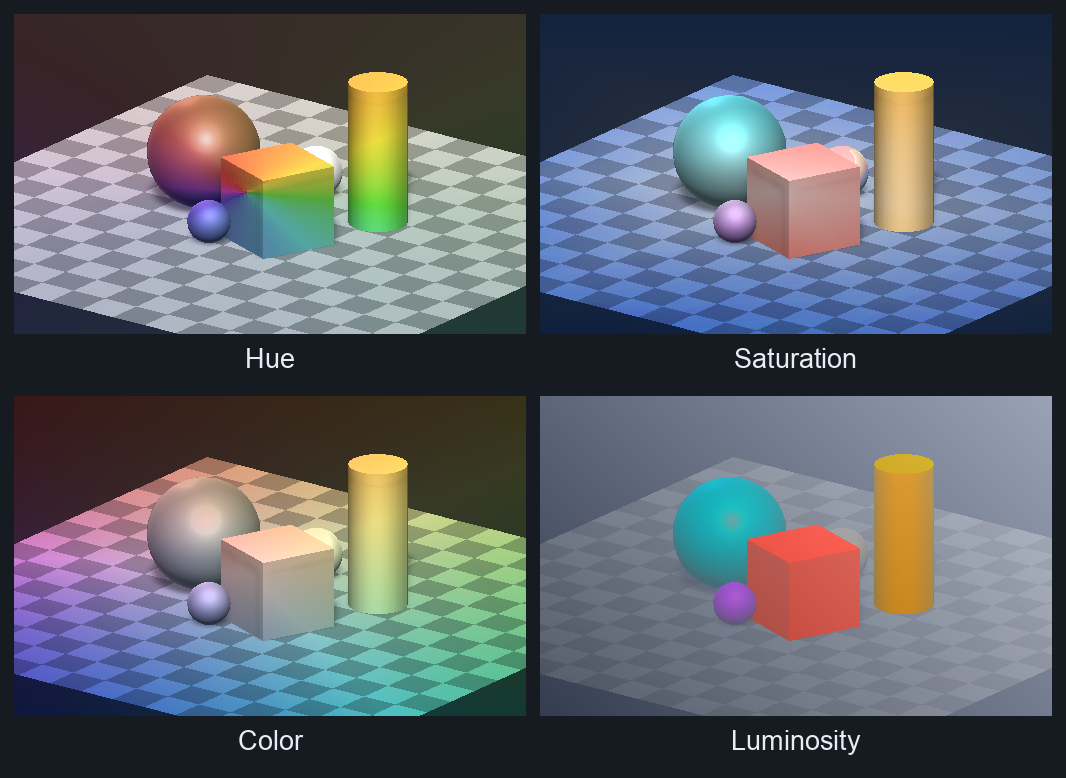
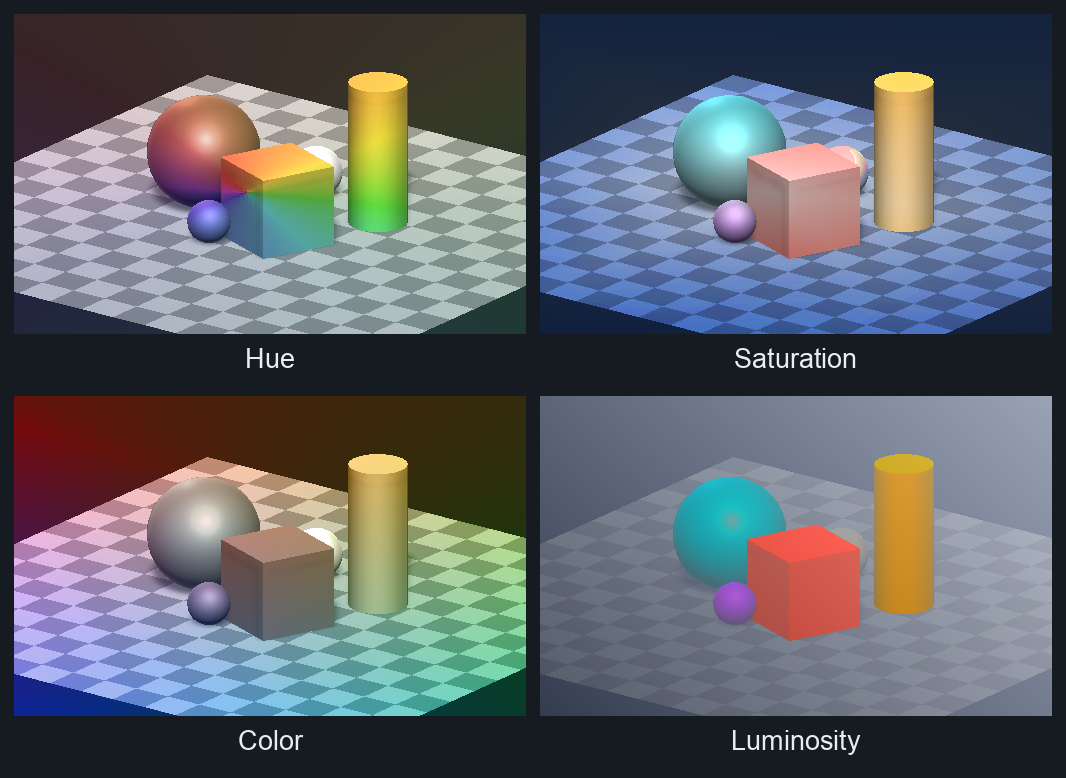
fix: preserve luminosity in Color blending

Changed region(s): [[0.0, 0.4936, 0.4953, 0.9254], [0.4644, 0.6787, 0.4953, 0.7095]]

diff --git a/README.md b/README.md
@@ -26,7 +26,7 @@ Unity 6000.6.7f1 · Built-in/Metal · Gamma · orthographic camera. Same inputs,
 
 ![Overlay, Soft Light, Hard Light, Vivid Light, Linear Light, Pin Light, Hard Mix, Difference, and Exclusion](samples/contrast-difference.png)
 
-**Color components** — transfer hue, saturation, color, or luminosity.
+**Color components** — transfer hue, saturation, color, or luminosity. Color preserves background luminosity; muted blend colors still desaturate.
 
 ![Hue, Saturation, Color, and Luminosity](samples/color-components.png)
 
